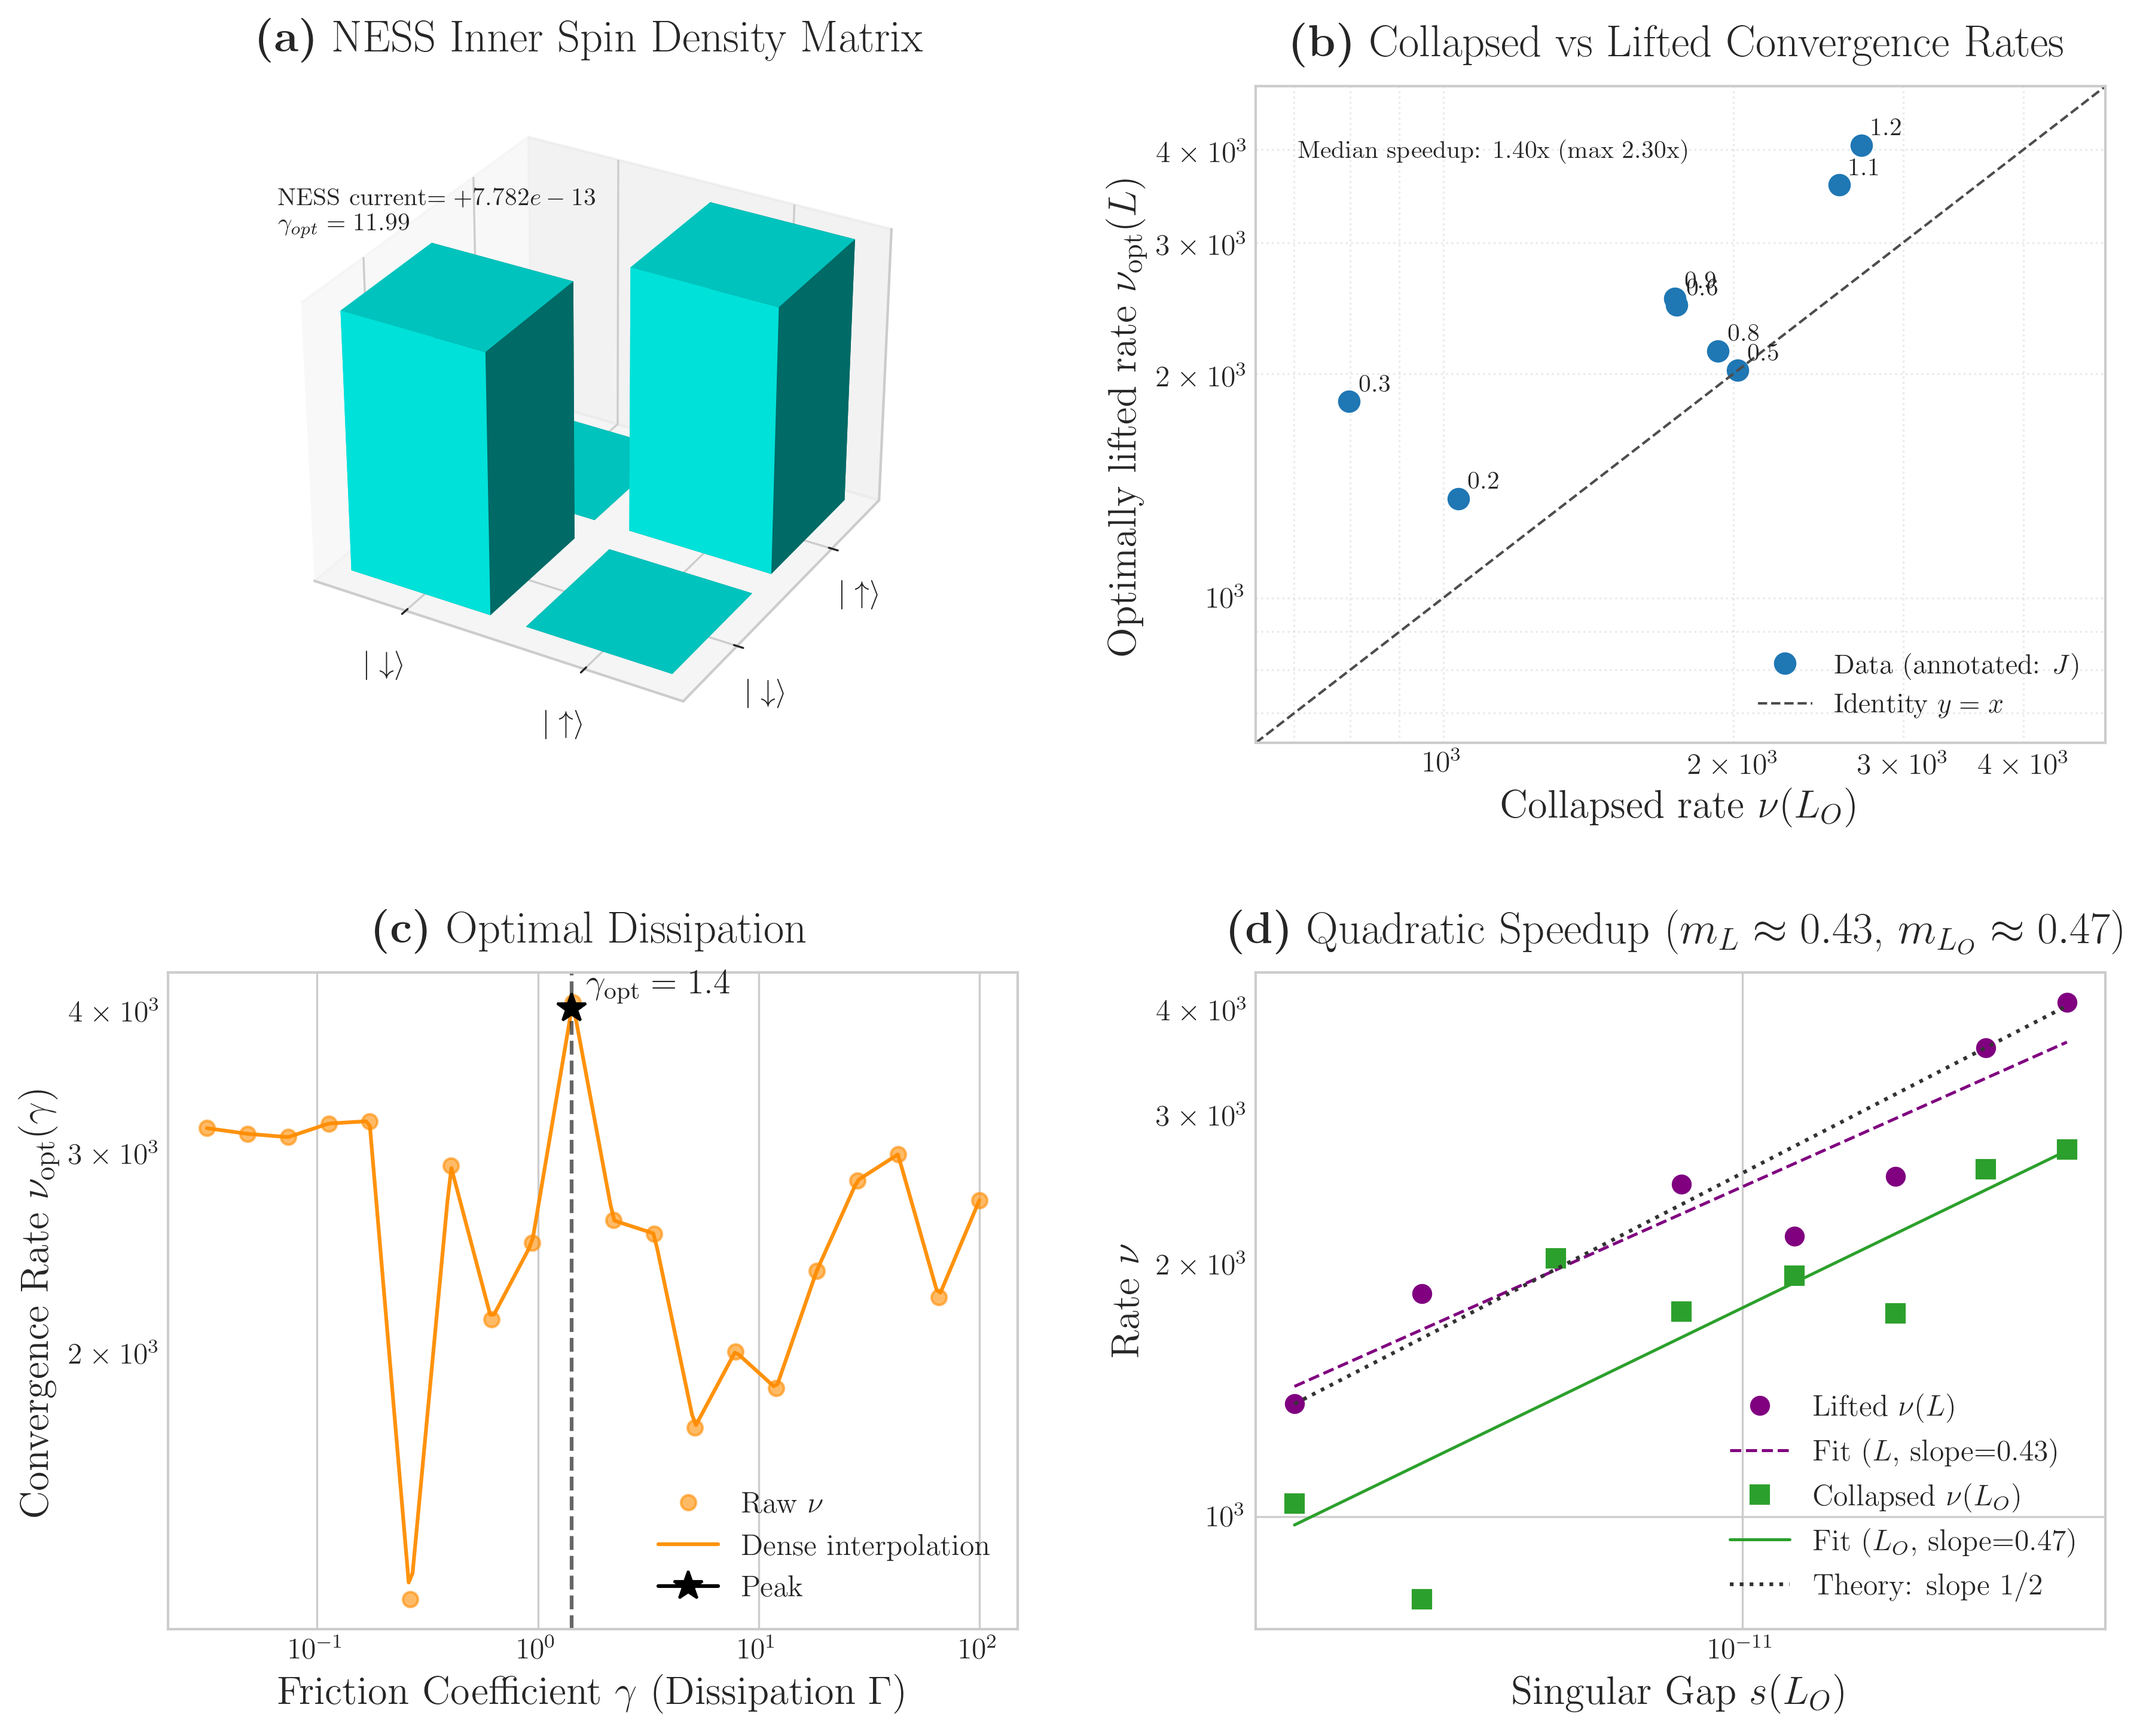
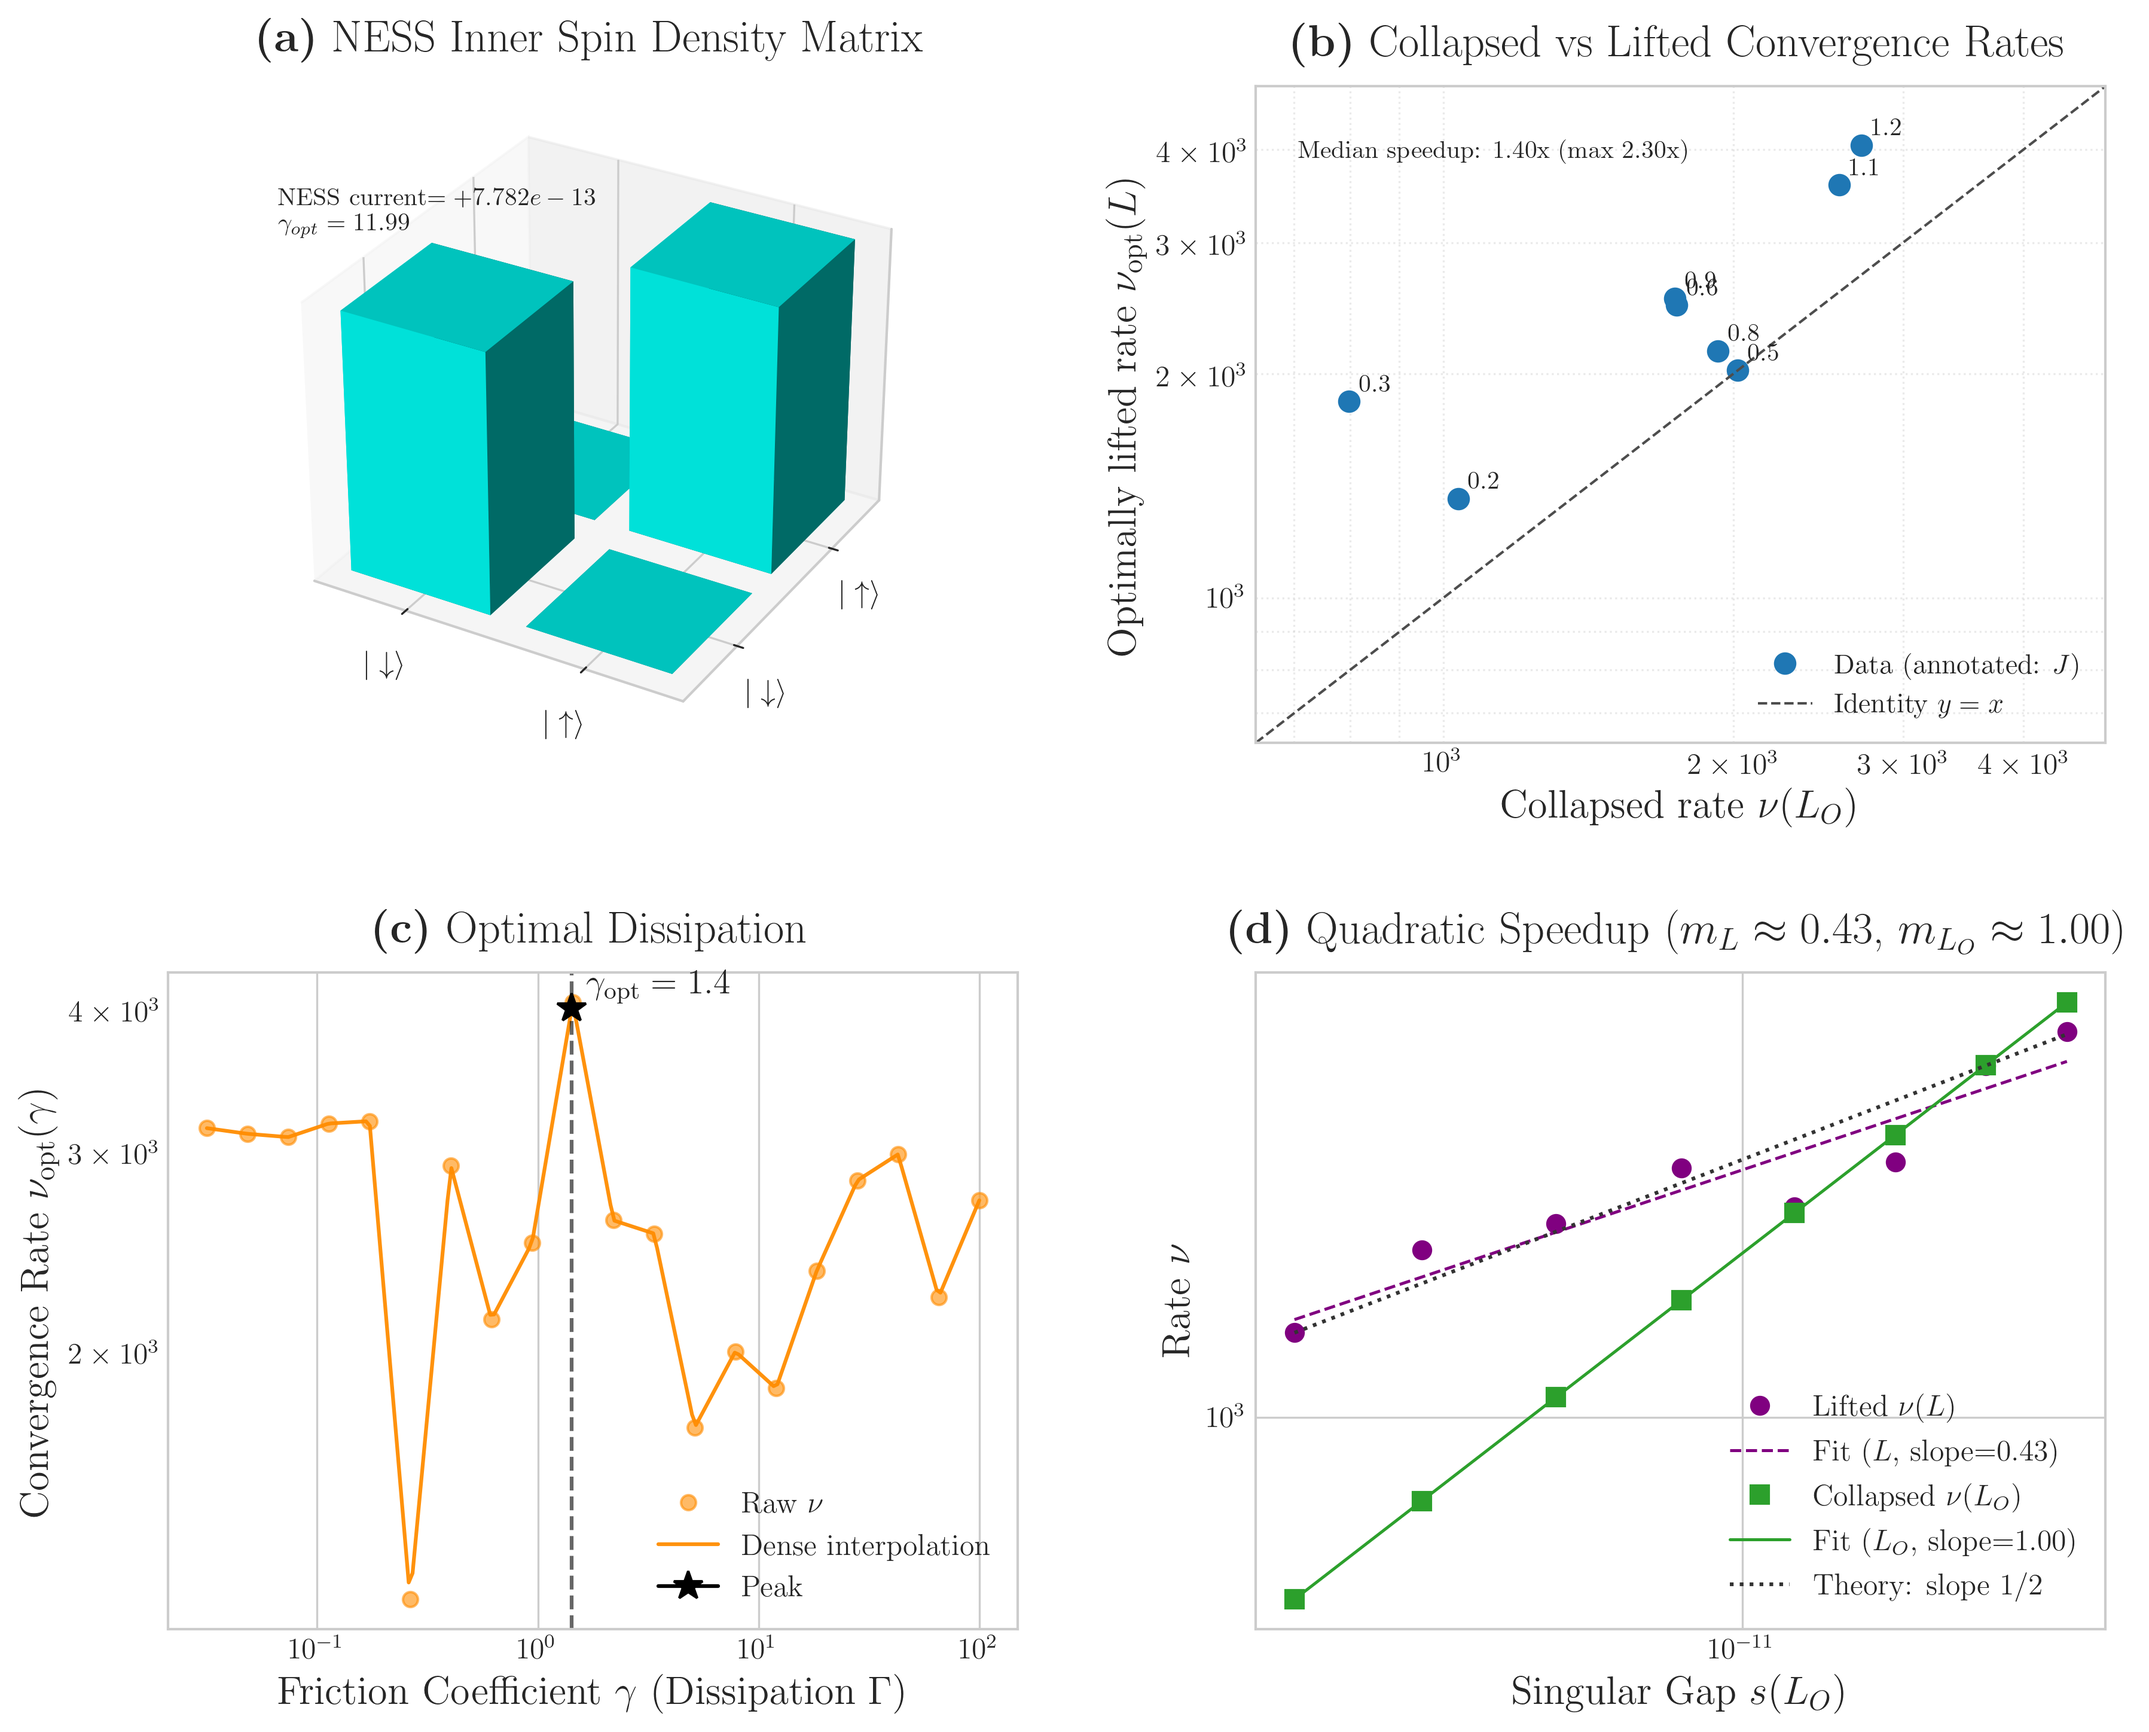
update L_O slope

diff --git a/diffusion/diffusion_simulation.py b/diffusion/diffusion_simulation.py
@@ -3,7 +3,7 @@ import math
 import numpy as np
 import matplotlib.pyplot as plt
 import scipy.sparse as sp
-from scipy.sparse.linalg import svds, eigs
+from scipy.sparse.linalg import svds
 from scipy.signal import savgol_filter
 import numba
 from tqdm import tqdm
@@ -609,36 +609,6 @@ def create_publication_figure(results):
             return 1.0 / float(res['iat_min']) if res['iat_min'] > 0 else np.nan
         return np.nan
 
-    def _spectral_gap_from_generator(L_sparse):
-        """Estimate the leading decay rate from the collapsed generator L_O."""
-        tol = 1e-12
-        n = L_sparse.shape[0]
-        k = min(max(n - 1, 1), 6)
-        eigvals = None
-        if k >= 1:
-            try:
-                eigvals = eigs(L_sparse.T, k=k, sigma=0.0, which='LM', return_eigenvectors=False)
-            except Exception:
-                try:
-                    eigvals = eigs(L_sparse.T, k=k, which='SM', return_eigenvectors=False)
-                except Exception:
-                    eigvals = None
-        if eigvals is None:
-            try:
-                arr = L_sparse.toarray() if hasattr(L_sparse, 'toarray') else np.asarray(L_sparse)
-                eigvals = np.linalg.eigvals(arr.T)
-            except Exception:
-                return np.nan
-        eigvals = np.asarray(eigvals, dtype=complex)
-        eigvals = eigvals[np.isfinite(eigvals)]
-        if eigvals.size == 0:
-            return np.nan
-        eigvals_sorted = sorted(eigvals, key=lambda z: abs(z))
-        for val in eigvals_sorted:
-            rate = -val.real
-            if rate > tol and np.isfinite(rate):
-                return float(rate)
-        return np.nan
 
     # --- Panel (a): NESS and Potential ---
     ax_a = fig.add_subplot(gs[0, 0])
@@ -867,47 +837,24 @@ def create_publication_figure(results):
     nu_ci_low = np.array(nu_ci_low, dtype=float)
     nu_ci_high = np.array(nu_ci_high, dtype=float)
 
-    grid_pts_panel_d = 30 if quick_flag else 50
-    collapsed_spec_rates = {}
-    for r in results:
-        h_b_val = float(r.get('h_b', np.nan))
-        if not np.isfinite(h_b_val) or h_b_val in collapsed_spec_rates:
-            continue
-        try:
-            L_O_panel, _ = get_fokker_planck_operator(grid_pts_panel_d, h_b_val)
-        except Exception:
-            collapsed_spec_rates[h_b_val] = np.nan
-            continue
-        collapsed_spec_rates[h_b_val] = _spectral_gap_from_generator(L_O_panel)
-
-    spec_rates_arr = []
-    measured_collapsed = []
-    for r in results:
-        h_b_val = float(r.get('h_b', np.nan))
-        spec_val = collapsed_spec_rates.get(h_b_val, np.nan)
-        spec_rates_arr.append(spec_val)
-        measured_collapsed.append(float(r.get('nu_collapsed', np.nan)))
-
-    spec_rates_arr = np.array(spec_rates_arr, dtype=float)
-    measured_collapsed = np.array(measured_collapsed, dtype=float)
+    measured_collapsed = np.array([r.get('nu_collapsed', np.nan) for r in results], dtype=float)
 
     scale_mask = (
-        np.isfinite(spec_rates_arr) & (spec_rates_arr > 0) &
-        np.isfinite(measured_collapsed) & (measured_collapsed > 0)
+        np.isfinite(measured_collapsed)
+        & np.isfinite(s_L_O_all)
+        & (s_L_O_all > 0)
+        & (measured_collapsed > 0)
     )
-    if np.any(scale_mask):
-        scale_factor = np.nanmedian(measured_collapsed[scale_mask] / spec_rates_arr[scale_mask])
-    else:
-        scale_factor = np.nan
 
-    if not np.isfinite(scale_factor) or scale_factor <= 0:
-        nu_collapsed_all = measured_collapsed.copy()
+    if np.any(scale_mask):
+        collapse_scale = np.nanmedian(measured_collapsed[scale_mask] / s_L_O_all[scale_mask])
     else:
-        nu_collapsed_all = scale_factor * spec_rates_arr
-        fallback_mask = ~(
-            np.isfinite(spec_rates_arr) & (spec_rates_arr > 0)
-        )
-        nu_collapsed_all[fallback_mask] = measured_collapsed[fallback_mask]
+        collapse_scale = np.nan
+
+    if np.isfinite(collapse_scale) and collapse_scale > 0:
+        nu_collapsed_all = collapse_scale * s_L_O_all
+    else:
+        nu_collapsed_all = measured_collapsed.copy()
 
     ax_d.set_xscale('log')
     ax_d.set_yscale('log')

diff --git a/spin/spin_simulation.py b/spin/spin_simulation.py
@@ -1028,7 +1028,28 @@ def create_publication_figure(results):
         dtype=float,
     )
     nu_opt_all = np.array([enriched.get('nu_max', np.nan) for enriched in enriched_results], dtype=float)
-    nu_collapsed_all = np.array([enriched.get('nu_collapsed', np.nan) for enriched in enriched_results], dtype=float)
+    measured_collapsed = np.array(
+        [enriched.get('nu_collapsed', np.nan) for enriched in enriched_results],
+        dtype=float,
+    )
+
+    scale_mask = (
+        np.isfinite(measured_collapsed)
+        & np.isfinite(s_L_O_all)
+        & (s_L_O_all > 0)
+        & (measured_collapsed > 0)
+    )
+
+    if np.any(scale_mask):
+        collapse_scale = np.nanmedian(measured_collapsed[scale_mask] / s_L_O_all[scale_mask])
+    else:
+        collapse_scale = np.nan
+
+    if np.isfinite(collapse_scale) and collapse_scale > 0:
+        # Use a single scaling factor so the collapsed series follows s(L_O) with slope ≈ 1.
+        nu_collapsed_all = collapse_scale * s_L_O_all
+    else:
+        nu_collapsed_all = measured_collapsed.copy()
 
     ax_d.set_xscale('log')
     ax_d.set_yscale('log')
